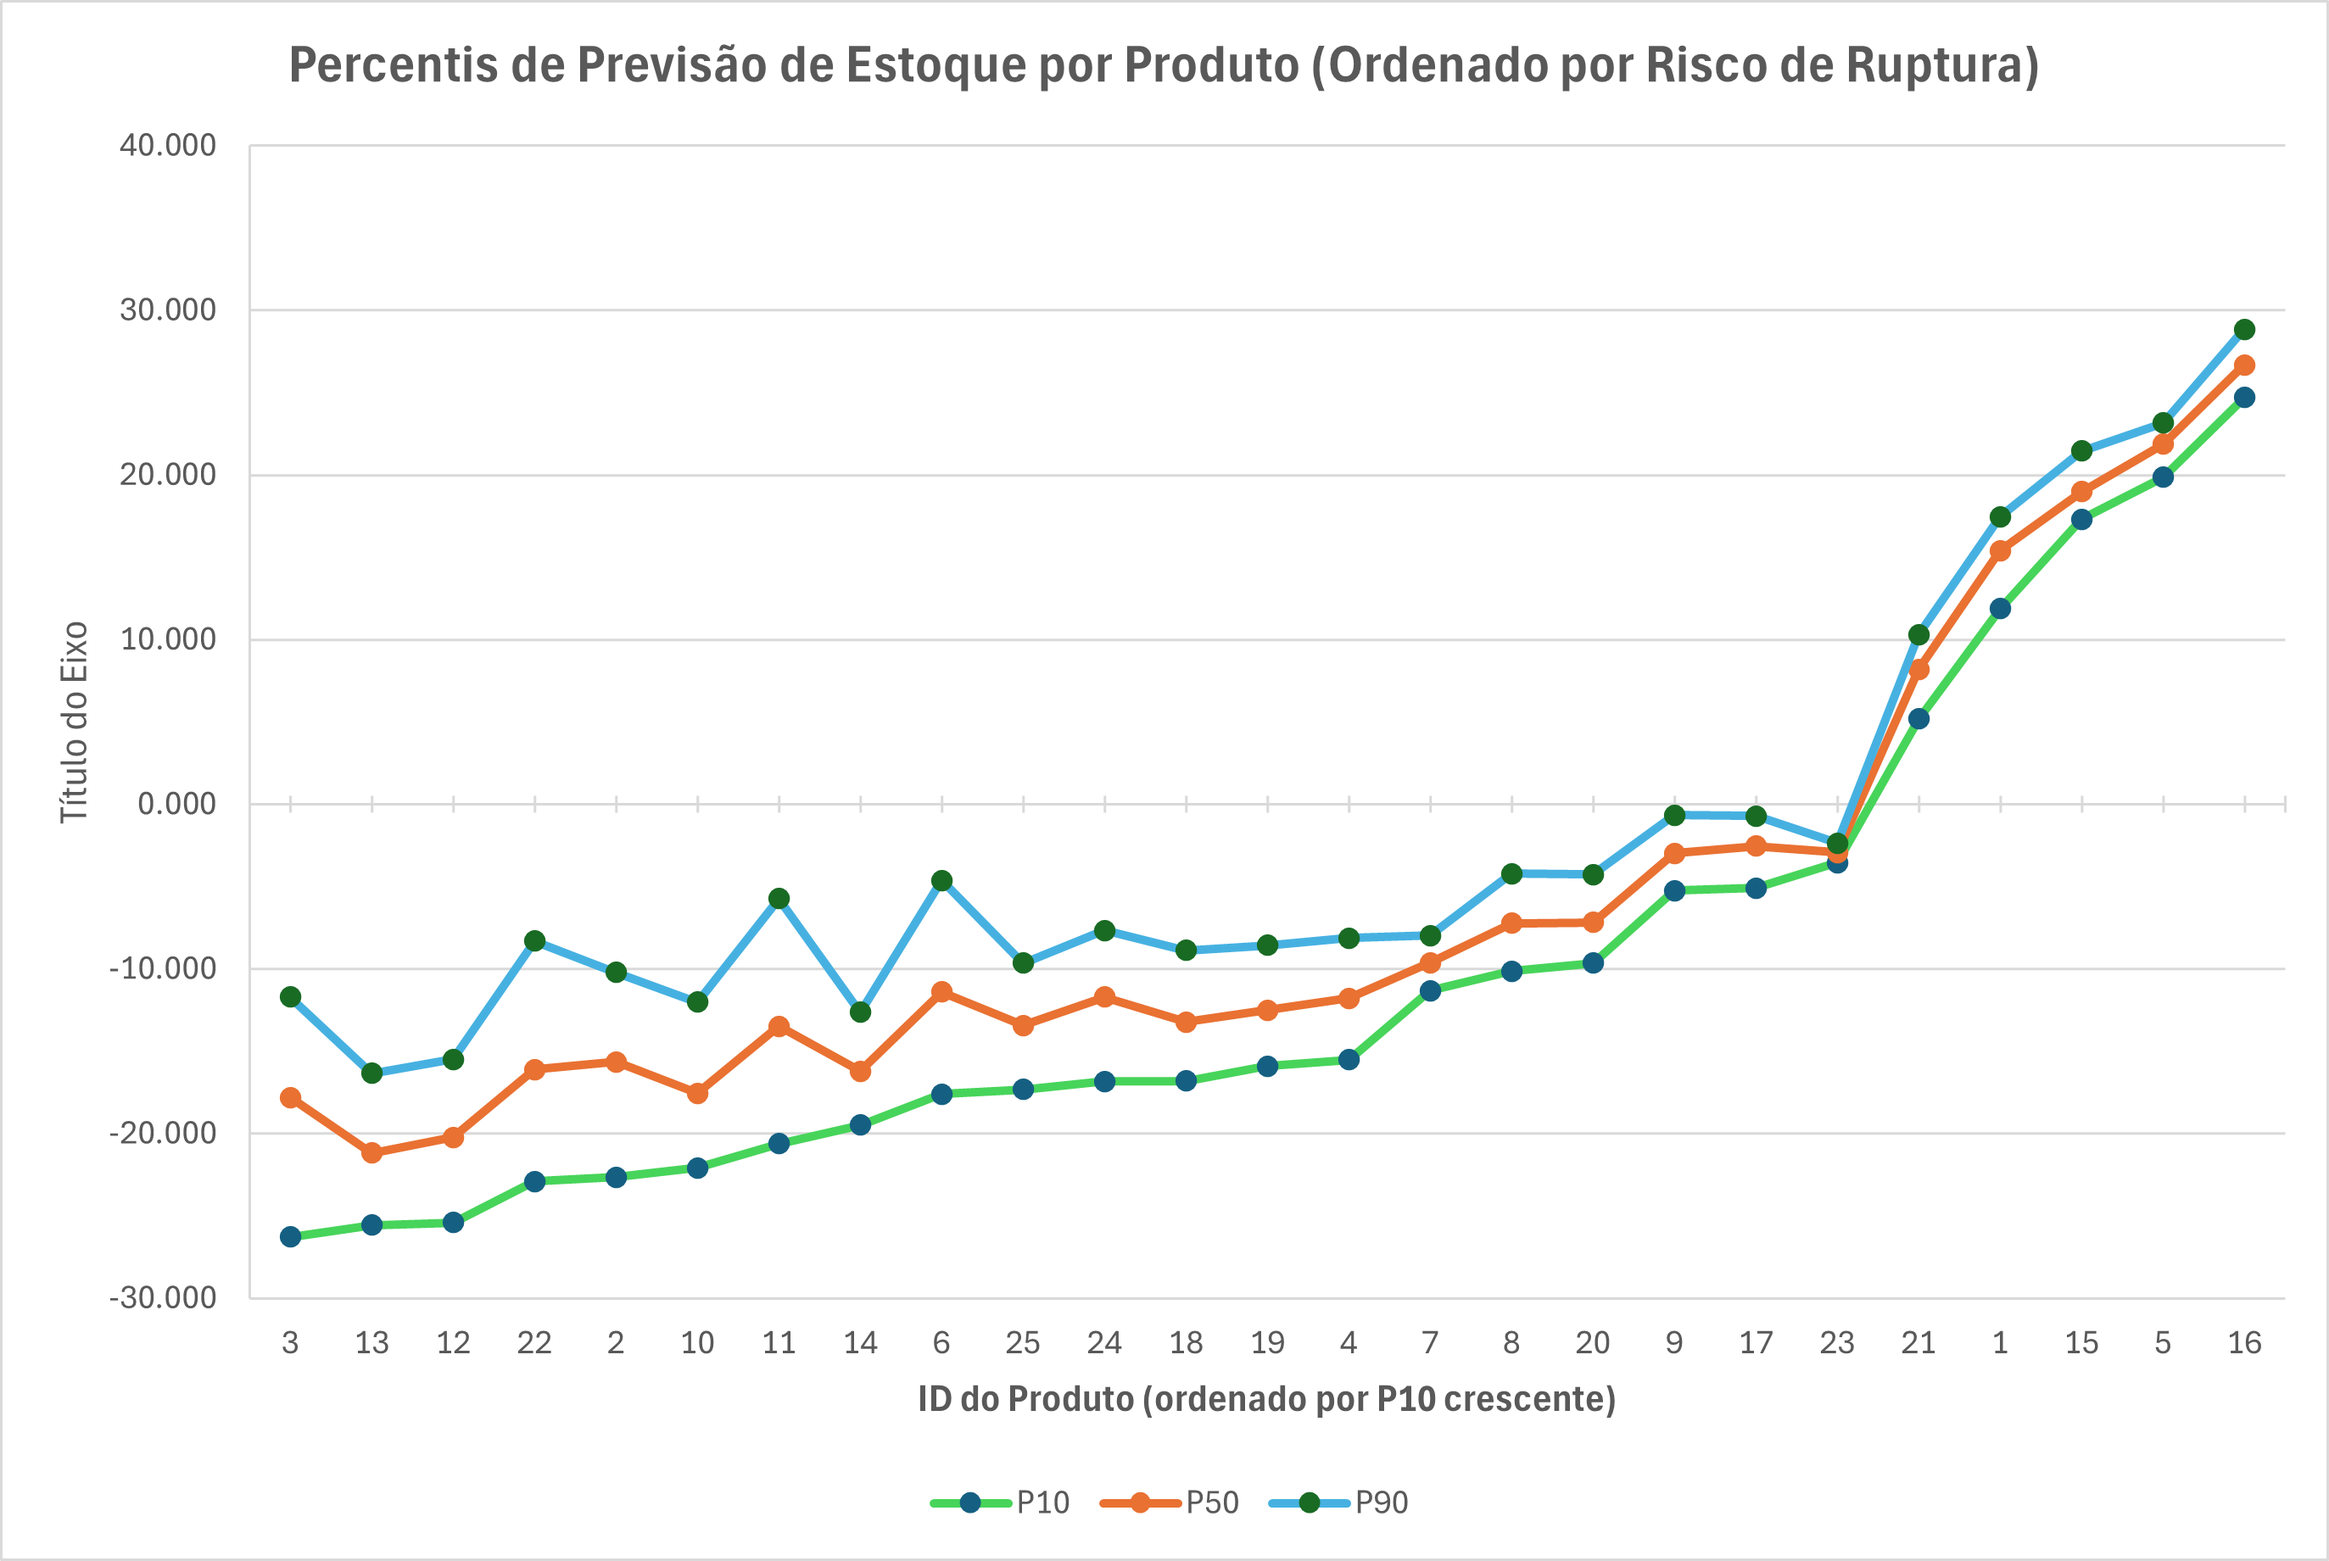
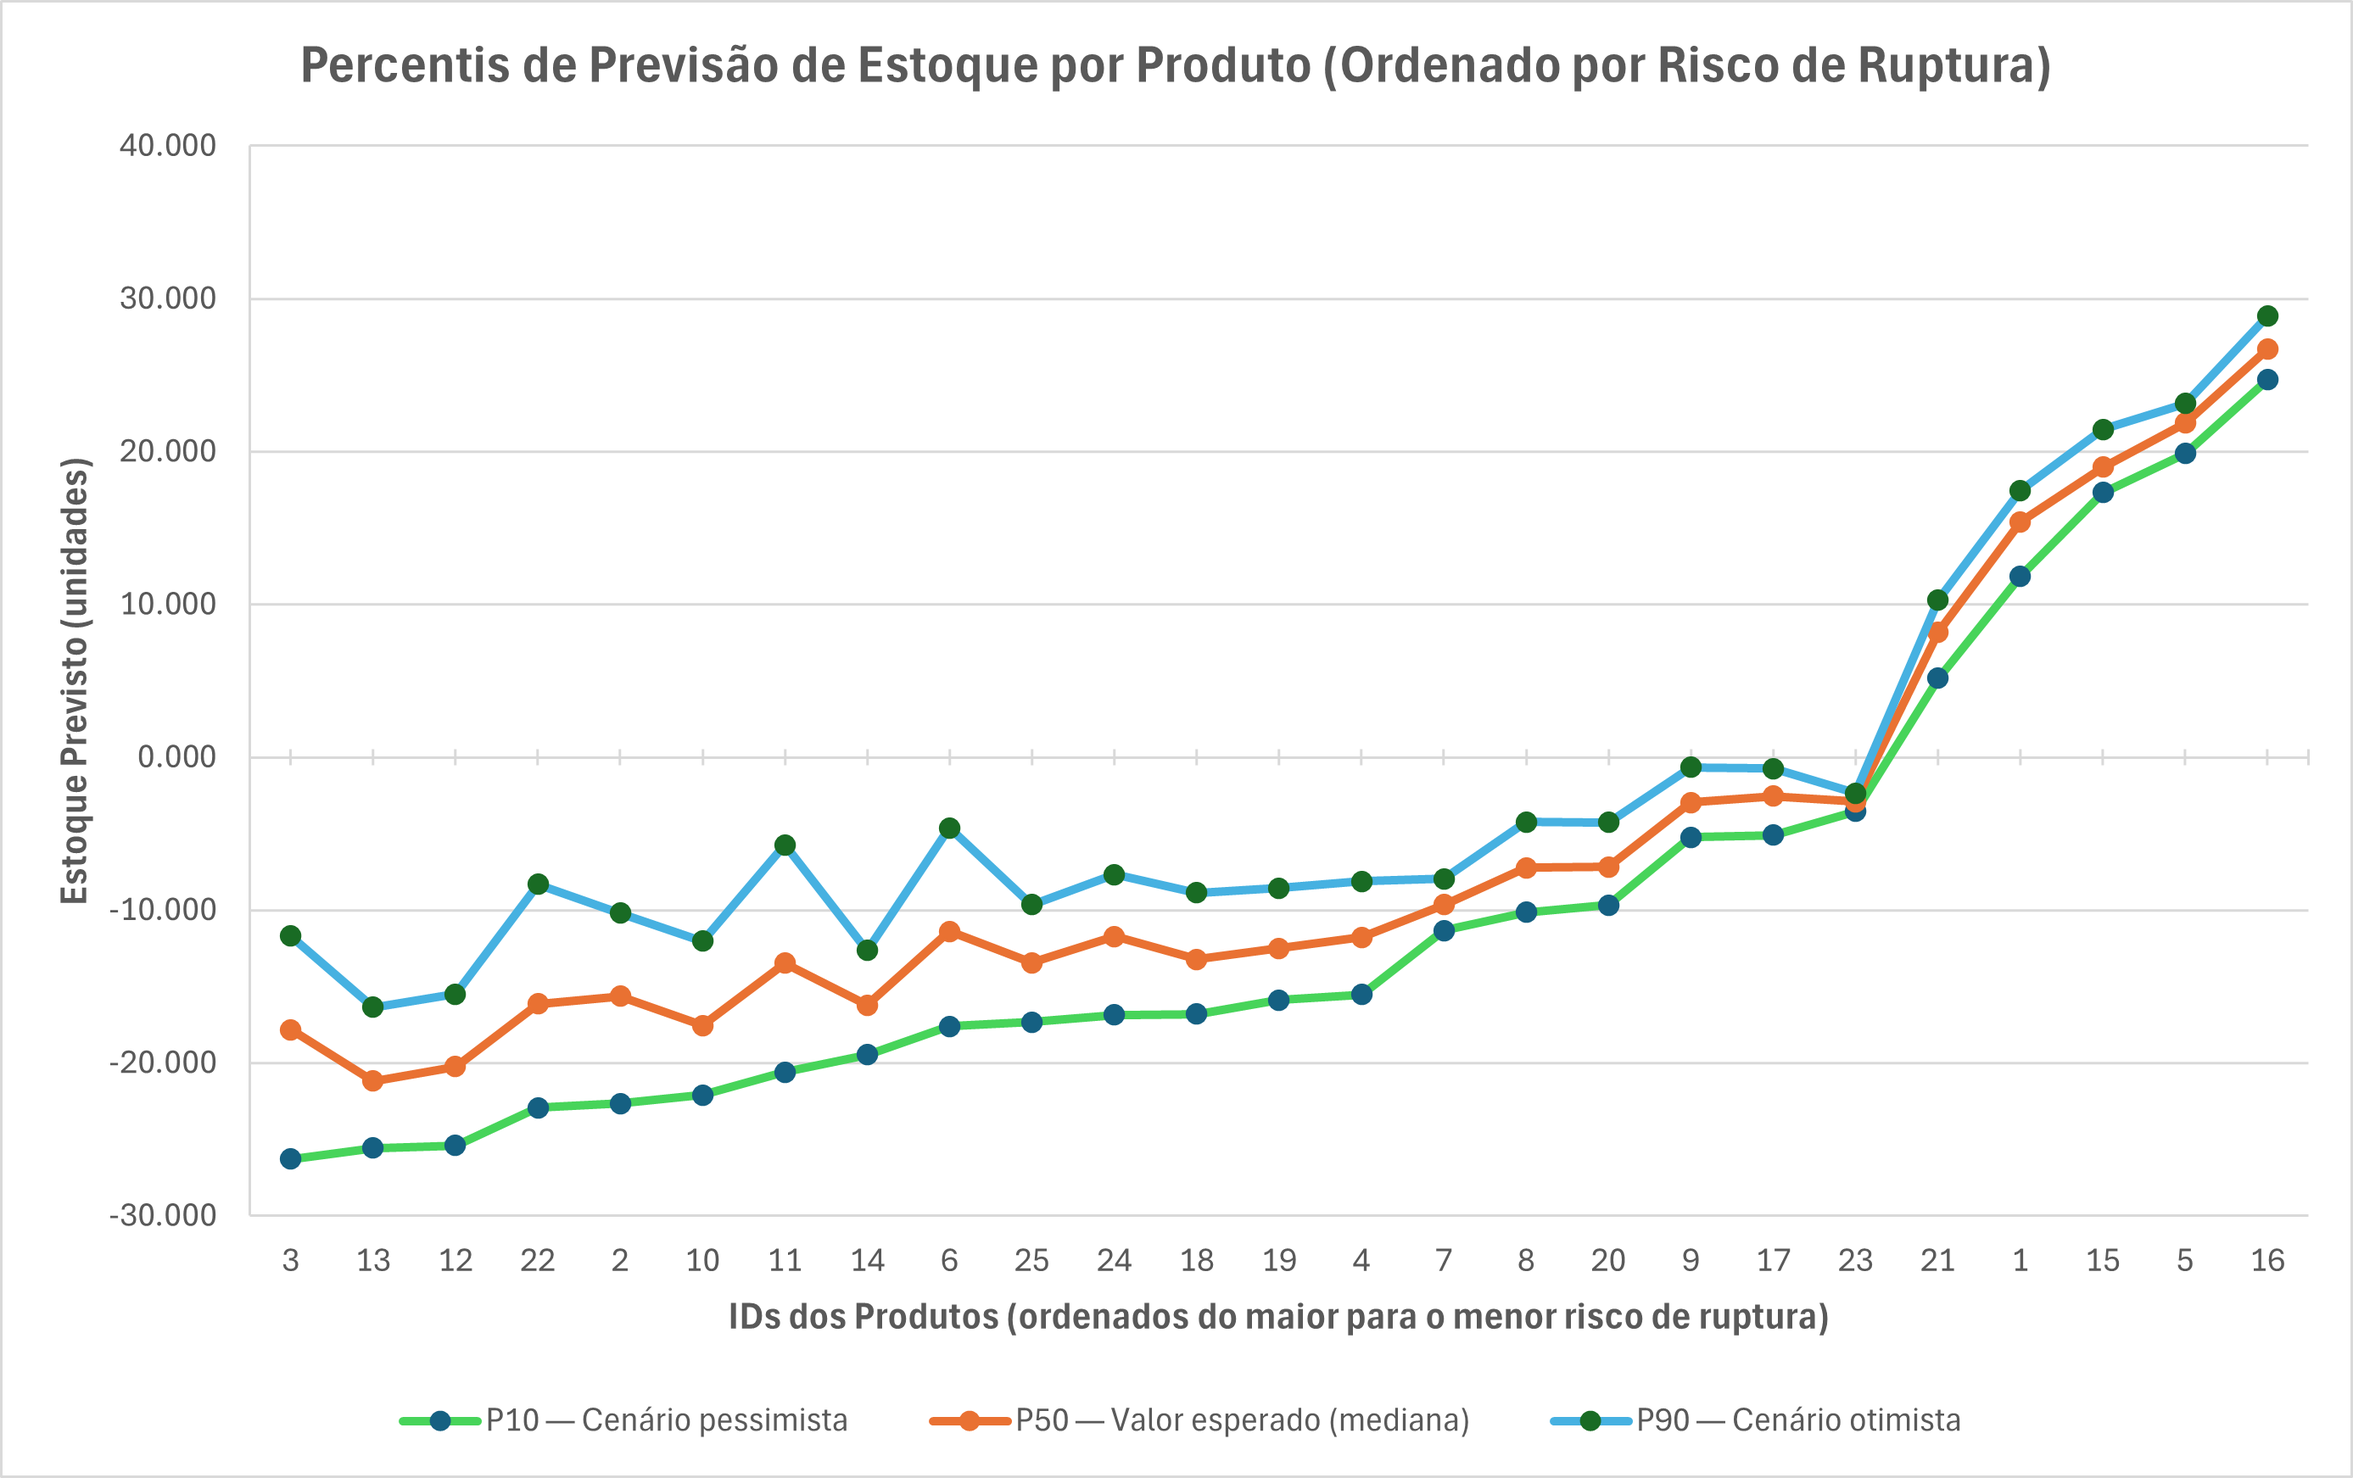
feta: generating the graphs

diff --git a/README.md b/README.md
@@ -66,7 +66,7 @@ O dataset de treino possui a seguinte estrutura:
 | FLAG_PROMOCAO | Indica se  produto estava em promoção. (0 = não, 1 = sim) |
 | QUANTIDADE_ESTOQUE | Quantidade disponível em estque |
 
-Exemplo de registros:
+Exemplo utilizando os primeiros registros do *dataset*:
 
 | ID_PRODUTO | DIA	| FLAG_PROMOCAO	| QUANTIDADE_ESTOQUE |
 | :---: | :---: | :---: | :---: |
@@ -441,8 +441,18 @@ Essa abordagem é amplamente utilizada em projetos reais de **Supply Chain e For
 - Eixo Y com referência em zero
 - Produtos ordenados por risco
 
-📷 Figura 1 – Previsão de estoque com intervalo de incerteza
-(Inserir imagem do gráfico aqui)
+
+#### Gráfico de linhas
+
+<!--Markdown
+![Previsão de estoque com intervalo de incerteza](/images/graph_forecast_products_line.png)
+-->
+
+<div style="text-align: center;">
+<img src="images/graph_forecast_products_line.png" style="max-width:800px;min-width:400px;width:80%">
+</div>
+
+📷 Figura 1 – (Gráfico de linhas). Ordenação baseada no percentil P10, que representa o cenário pessimista da previsão.
 
 ---
 
